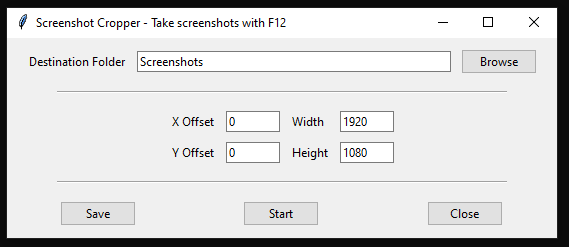
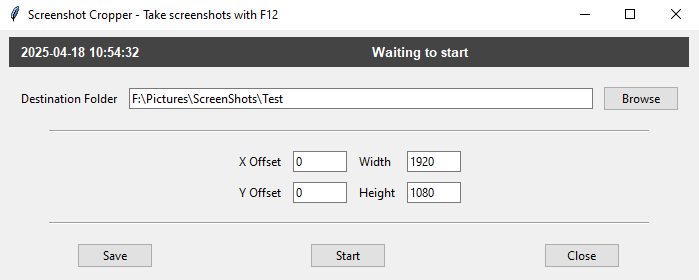
Update readme

diff --git a/README.md b/README.md
@@ -33,6 +33,10 @@ To start up the graphical user interface, simply double-click on the screenshot-
 
 In this interface, we can see the following elements:
 
+#### Event box
+
+This area displays various events. For example it records when we've started to listen for presses of F12 or when a screenshot is saved.
+
 #### Destination Folder
  
  You can use the file browser or the text box to specify where you want to save the screenshots. If you give a path to a folder that doesn't exist, it will be created when the 'Start' button is clicked.
